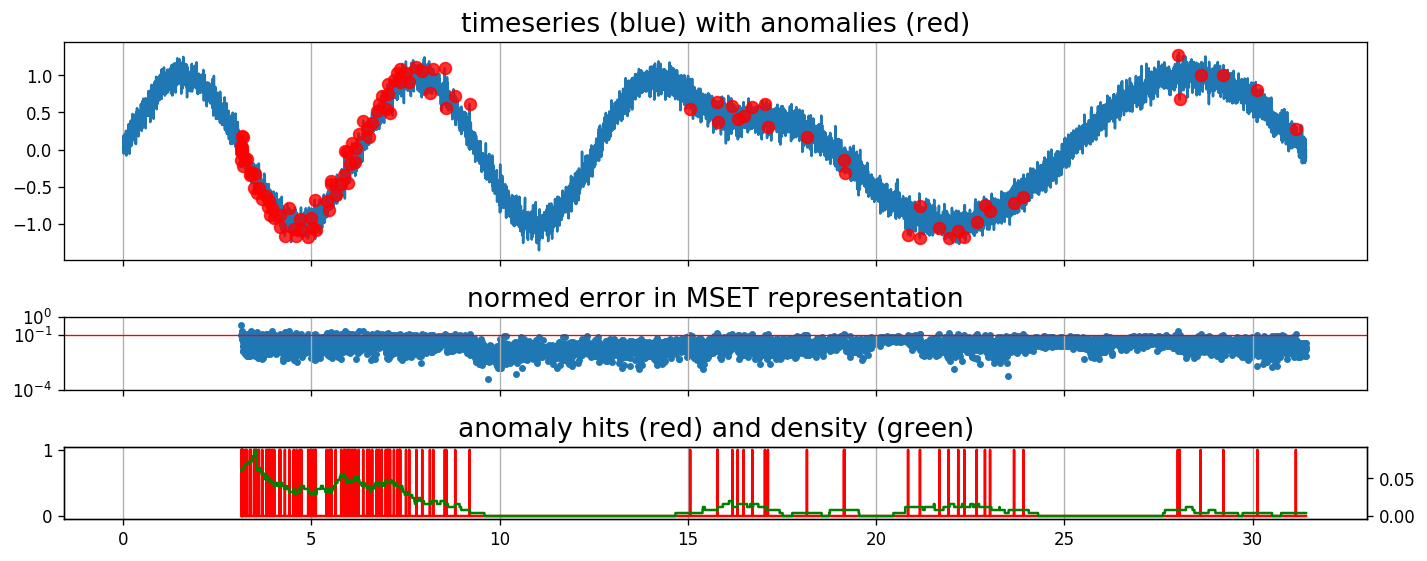
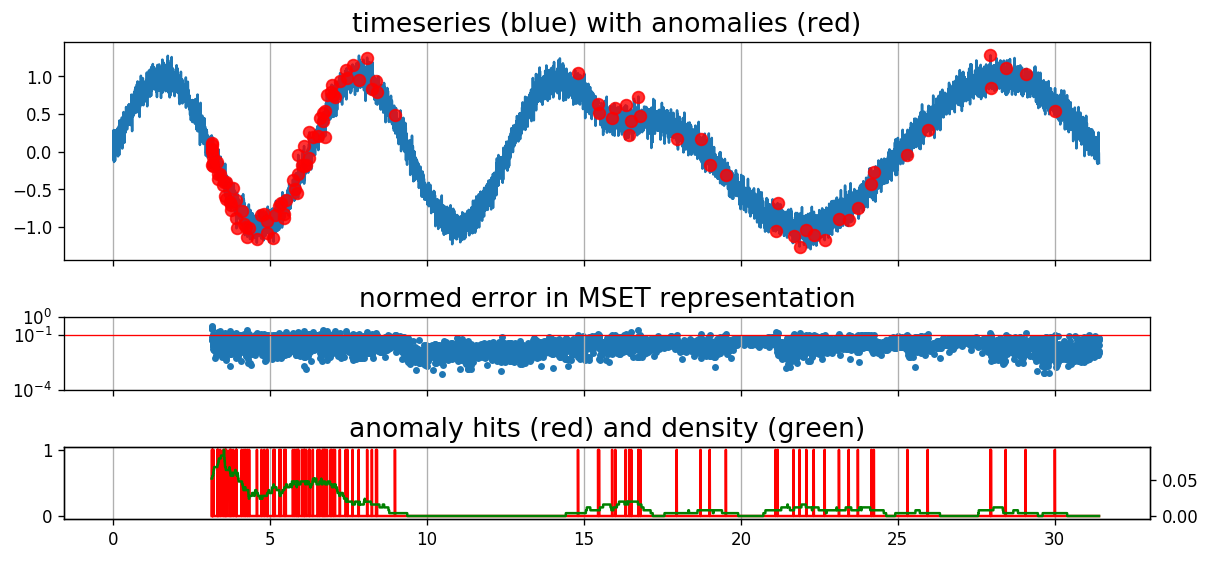
example results, incl. two mice

diff --git a/online_mset/mset.py b/online_mset/mset.py
@@ -238,3 +238,88 @@ def online_mset(Y, op=otimes2_ij, thresh=0.10, output_norms=False, **kwargs):
         return (norms >= thresh)
     #
 #
+
+#########################
+#
+# whole gamut + visualization
+#
+
+def visualize_mset(x,thresh,delay):
+    import tde
+    import numpy as np
+    from matplotlib import pyplot
+
+#    n = 4000
+#    thresh = 0.1
+
+#    t = np.linspace(0, 10*np.pi, n)
+#    x = np.sin(t) + 0.1*np.random.randn(n)
+
+    # introduce a new type of signal halfway through.
+#    heavy = (1 + np.tanh( 0.5*(t-5*np.pi) ))/2.
+#    x += heavy*np.sin(t/2) + heavy*(-np.sin(t))
+
+    # time delayed embedding based on analytical 
+    # zero-autocorrelation time of pi/2 for a sinusoid.
+#    delay = int((np.pi/2)/(t[1] - t[0]))
+    X = tde.tde(x, delay=delay)
+
+    # code demands data in X arranged as columns.
+    # note: code updated to give this as the output of tde.tde().
+#    X = X.T
+
+    norms = online_mset(X, output_norms=True, thresh=thresh, verbosity=1)
+
+    # visualize
+    fig,ax = pyplot.subplots(3,1, 
+                        figsize=(12,5), 
+                        gridspec_kw={'height_ratios':[3,1,1]}, 
+                        sharex=True)
+
+    t = np.arange(len(x))
+
+    t_d = t[2*delay:]
+
+    ax[0].plot(t,x)
+    ax[1].scatter(t_d,norms, s=5)
+
+    ymin = 10**int(np.floor(min(np.log10(norms[norms!=0.]))))
+    ymin = max(10**-5,ymin)
+    ymax = 10**int(np.ceil(max(np.log10(norms[norms!=0.]))))
+
+    ax[1].set_yscale('log')
+    ax[1].set_ylim([ymin,ymax])
+    yticks = [ymin,thresh,ymax]
+    ax[1].set_yticks( yticks )
+    ax[1].set_yticklabels([r'$10^{%i}$'%np.log10(val) for val in yticks])
+    
+    
+    ax[1].yaxis.grid()
+    gls = ax[1].get_ygridlines()
+    gls[1].set_color('r')
+
+    # get locations of anomalies.
+    anomalies = (norms>=thresh)
+    where = np.where(anomalies)[0]
+    where += 2*delay
+
+    anom_windowed = np.convolve(anomalies, np.ones(delay//2)/(delay/2.), mode='same')
+    ax[2].plot(t_d, anomalies, c='r')
+    ax2r = ax[2].twinx()
+
+    ax2r.plot(t_d, anom_windowed, c='k')
+
+    ax[0].scatter(t[where], x[where], c='r', marker='o', s=50, alpha=0.8, zorder=1000)
+
+    ax[0].set_title('timeseries (blue) with anomalies (red)', fontsize=16)
+    ax[1].set_title('normed error in MSET representation', fontsize=16)
+    ax[2].set_title('anomaly hits (red) and density (black)', fontsize=16)
+
+    for axi in ax: axi.xaxis.grid()
+
+    fig.tight_layout()
+
+#    fig.show()
+    return fig,ax
+#
+

diff --git a/nuch/online_mset_analysis.py b/nuch/online_mset_analysis.py
@@ -1,0 +1,31 @@
+import sys
+sys.path.append('/home/katrina/a/aminian/Better-understanding-immune-responses-via-telemetry-data')
+sys.path.append('/home/katrina/a/aminian/Better-understanding-immune-responses-via-telemetry-data/online_mset')
+
+import tde
+import mset
+import load_csvs
+
+tdict,df = load_csvs.load()
+
+mice = ['CC004-021', 'CBA-218']
+
+# wow, parameters
+thresh = 0.05
+delay = 6*60    # six hours
+
+figs = []
+axs = []
+
+
+for m in mice:
+    # cheat some - mean-center the data with
+    # some amount of pre-infection data.
+    temp = tdict[m]
+    temp -= sum(temp[:4*delay])/(4.*delay)
+    
+    fig,ax = mset.visualize_mset(temp,thresh,delay)
+    figs.append(fig)
+    axs.append(ax)
+    fig.show()
+#
